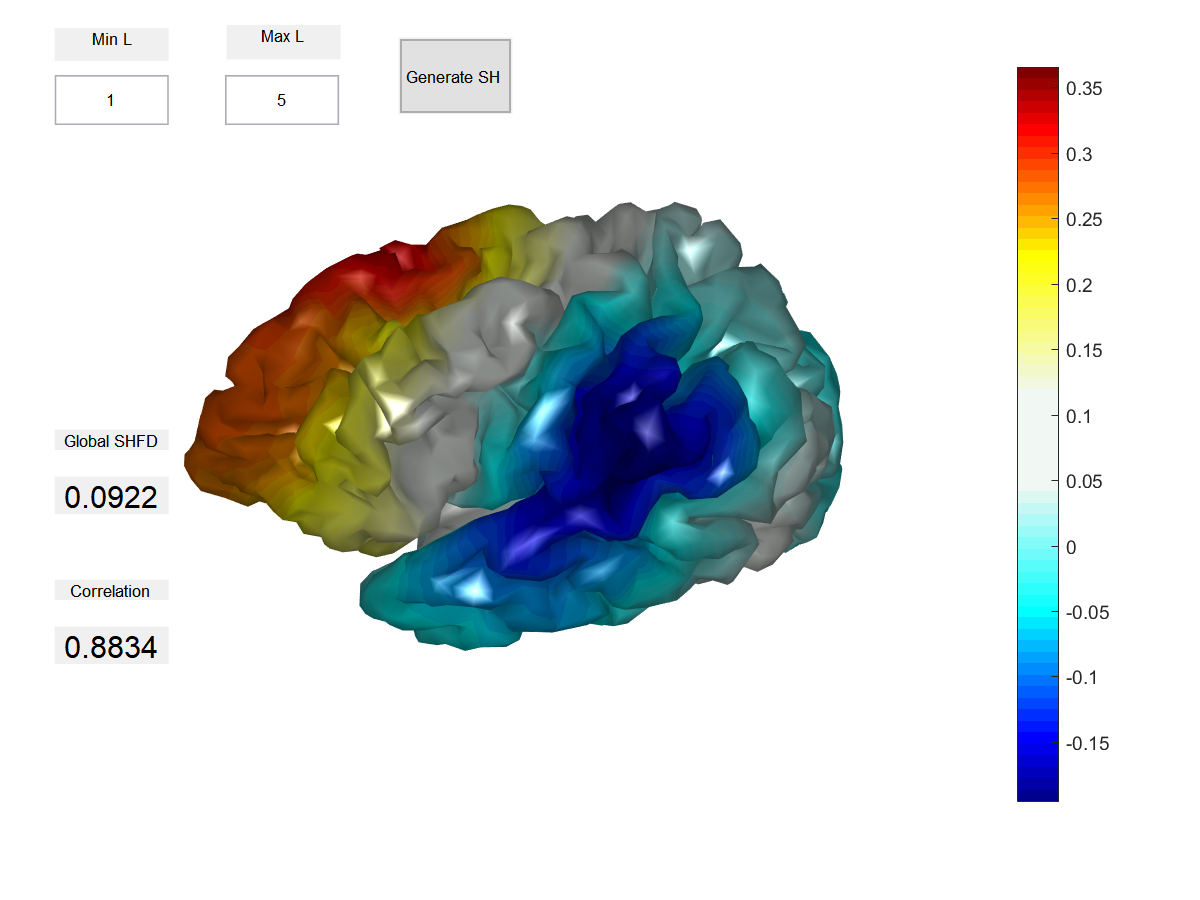
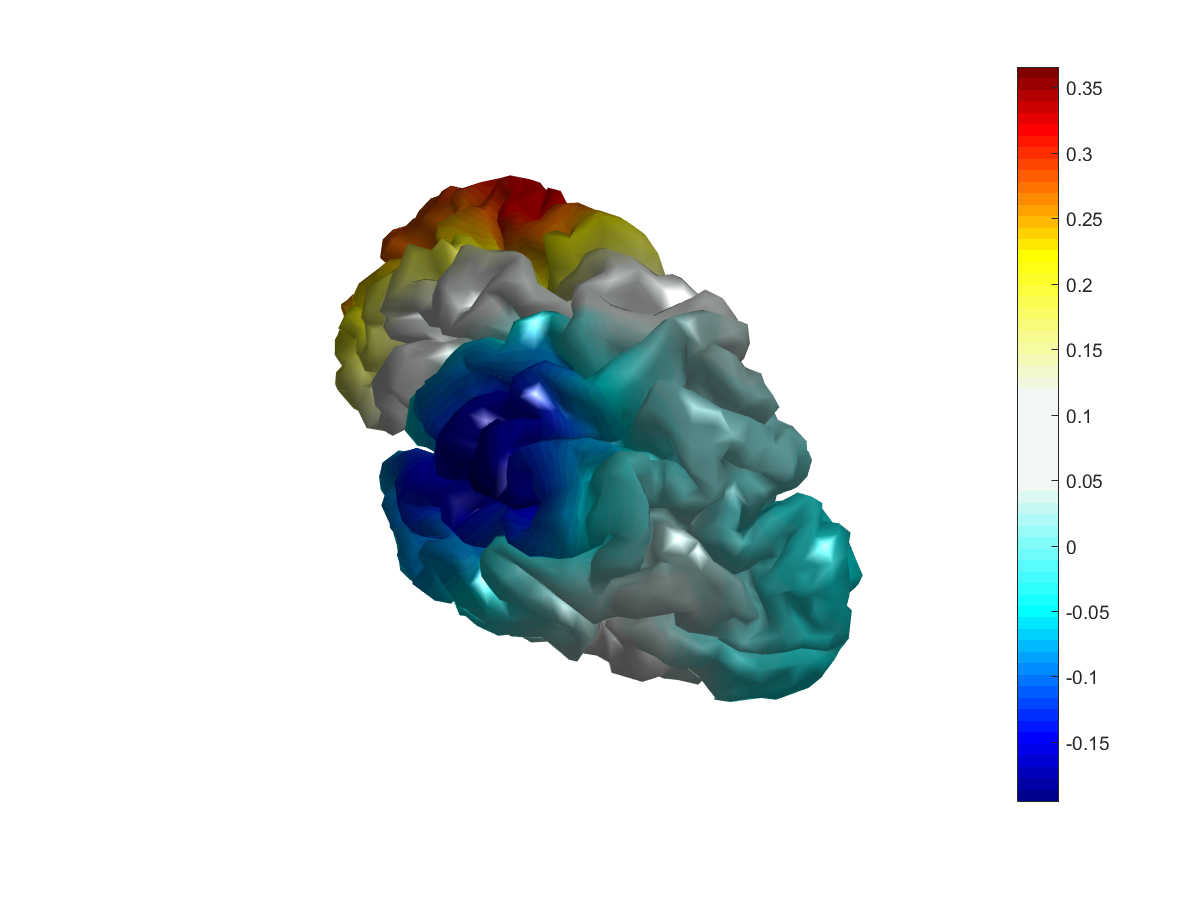
Screenshot
-Now only print the mesh figure and the color bar

diff --git a/Source/GUI.m b/Source/GUI.m
@@ -335,8 +335,32 @@ function screenbutton_ClickedCallback(hObject, eventdata, handles)
 % hObject    handle to screenbutton (see GCBO)
 % eventdata  reserved - to be defined in a future version of MATLAB
 % handles    structure with handles and user data (see GUIDATA)
+set(handles.GlobalSHFD, 'Visible', 'off');
+set(handles.Correlation, 'Visible', 'off');
+set(handles.text6, 'Visible', 'off');
+set(handles.text7, 'Visible', 'off');
+set(handles.vrbutton, 'Visible', 'off');
+set(handles.MFileButton,'visible','off');
+set(handles.minL,'visible','off');
+set(handles.maxL,'visible','off');
+set(handles.maxText,'visible','off');
+set(handles.minText,'visible','off');
+set(handles.screenbutton,'enable','off');
+    
 [file,path] = uiputfile('*.png');
 print(strcat(path,file), '-dpng');
+
+set(handles.GlobalSHFD, 'Visible', 'on');
+set(handles.Correlation, 'Visible', 'on');
+set(handles.text6, 'Visible', 'on');
+set(handles.text7, 'Visible', 'on');
+set(handles.vrbutton, 'Visible', 'on');
+set(handles.MFileButton,'visible','on');
+set(handles.minL,'visible','on');
+set(handles.maxL,'visible','on');
+set(handles.maxText,'visible','on');
+set(handles.minText,'visible','on');
+set(handles.screenbutton,'enable','on');
 
 
 % --- Executes on button press in vrbutton.
